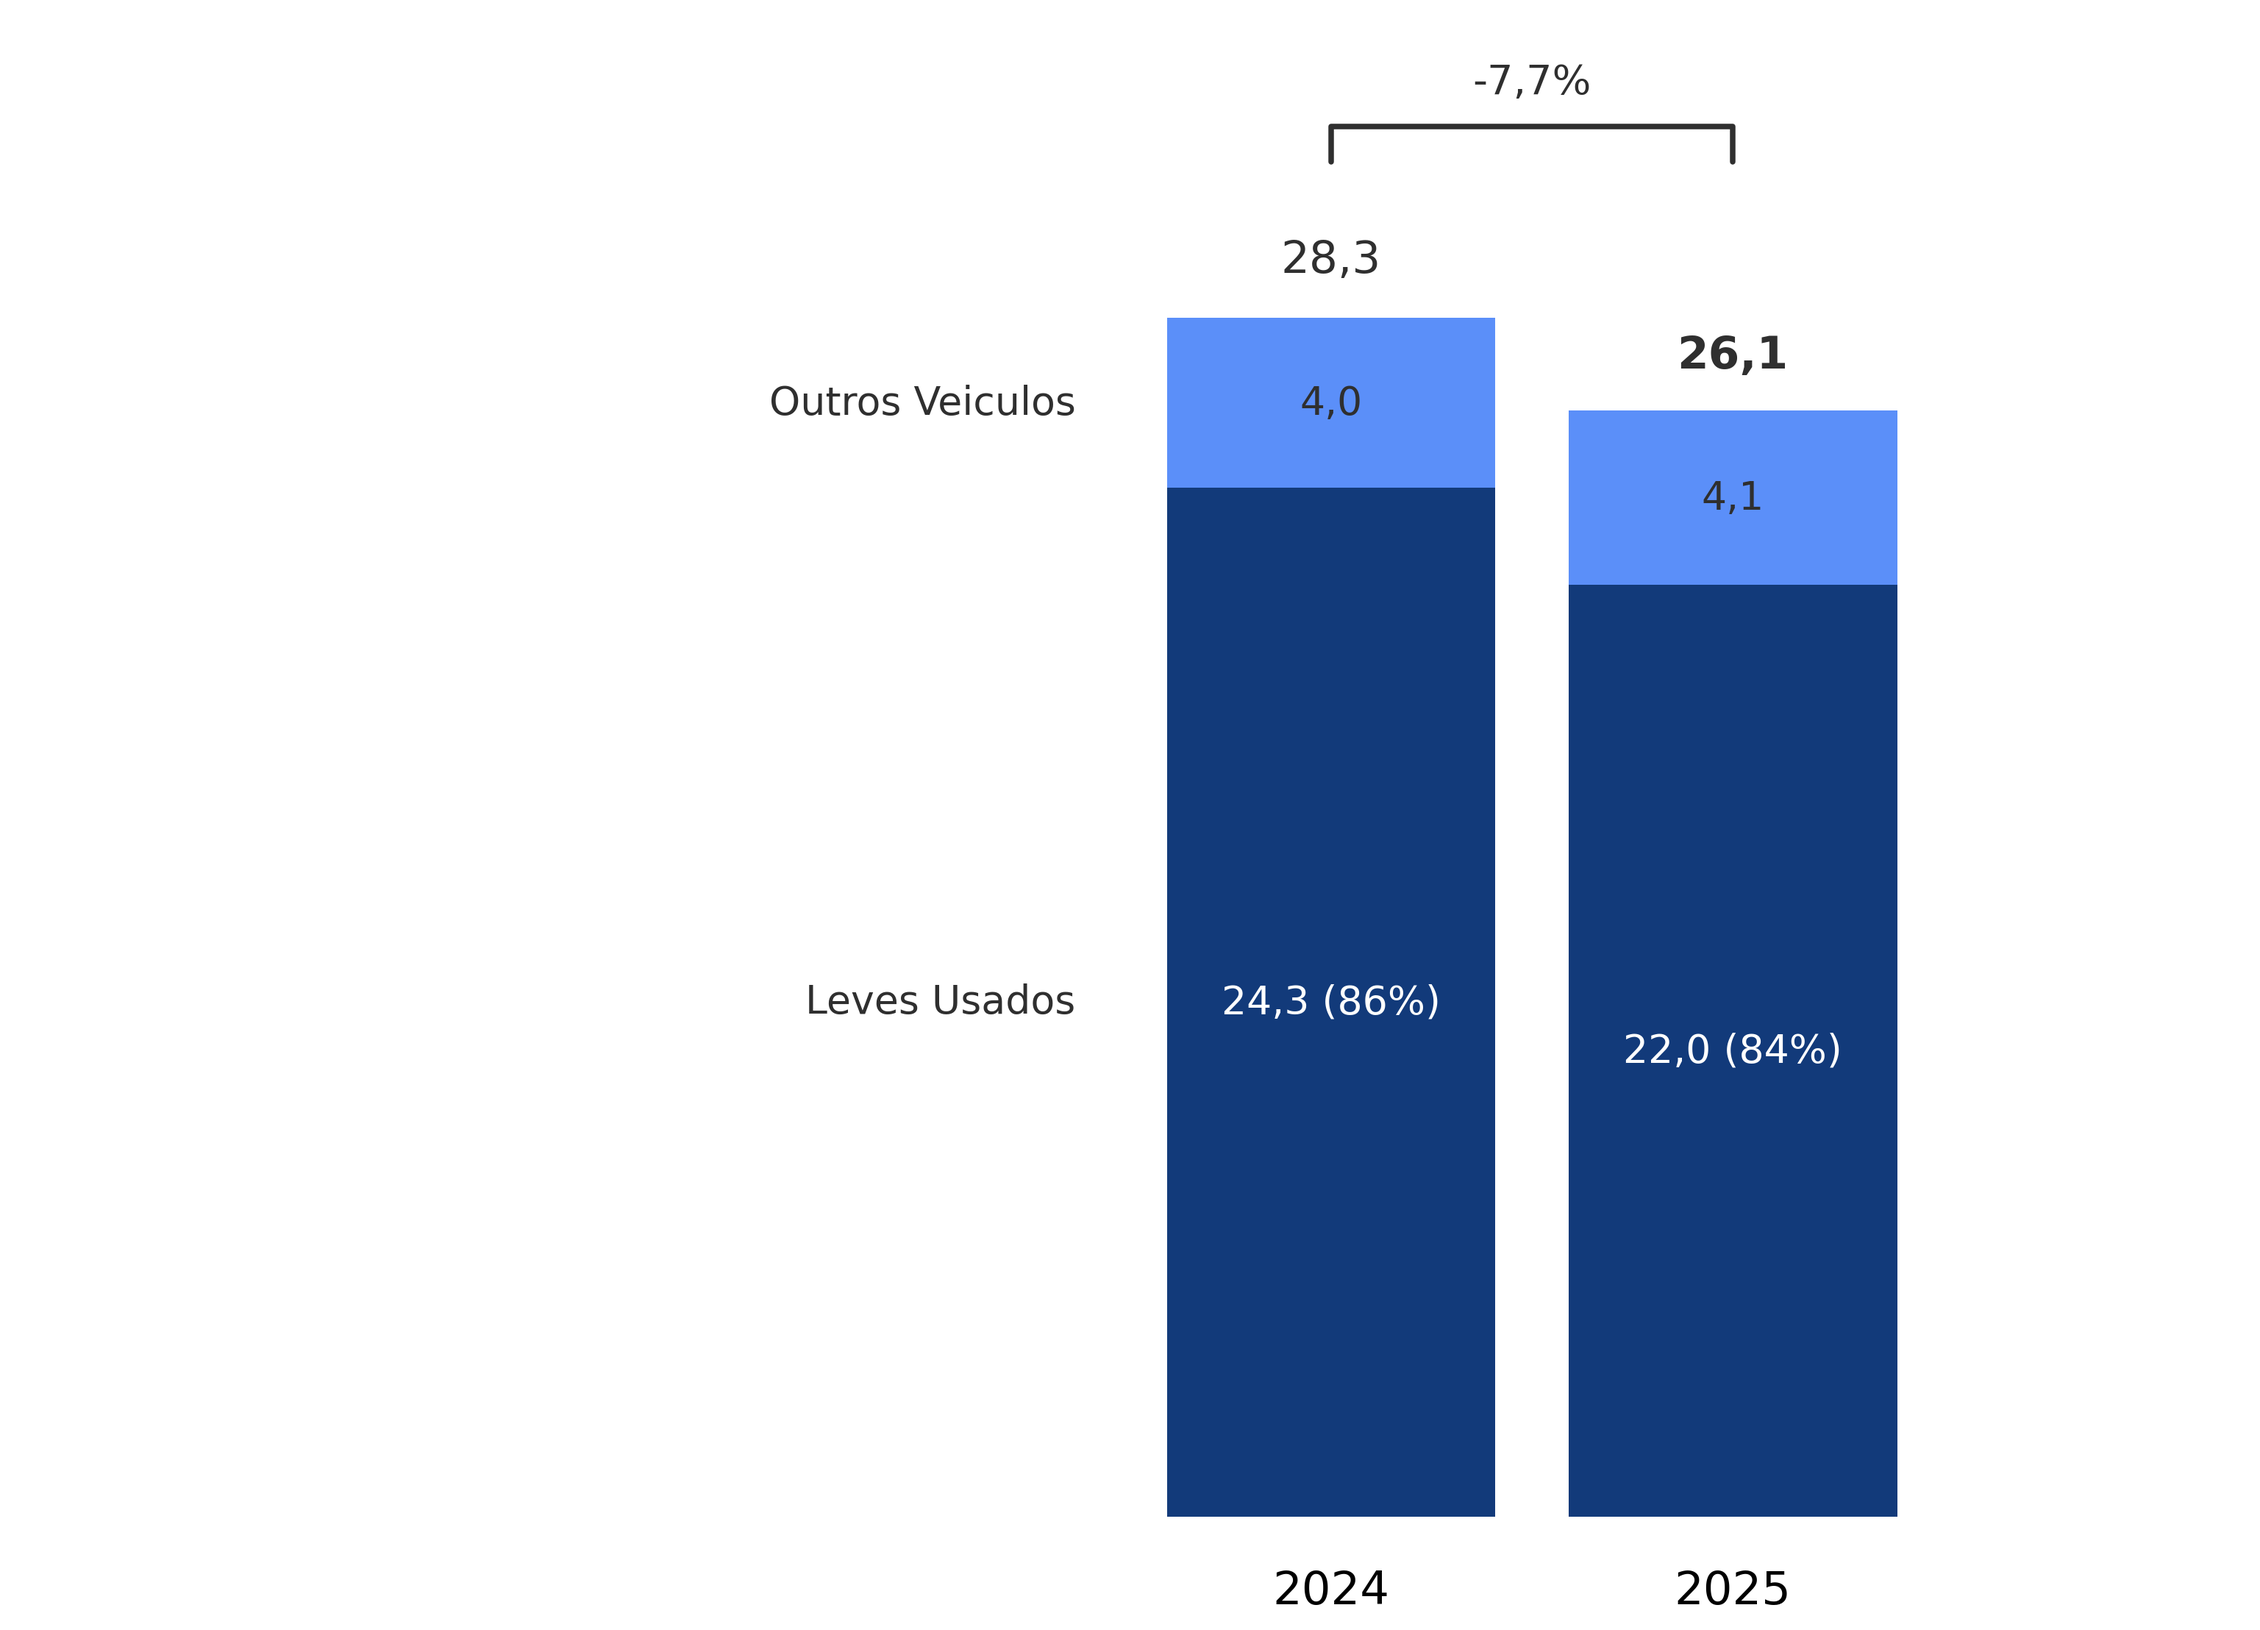
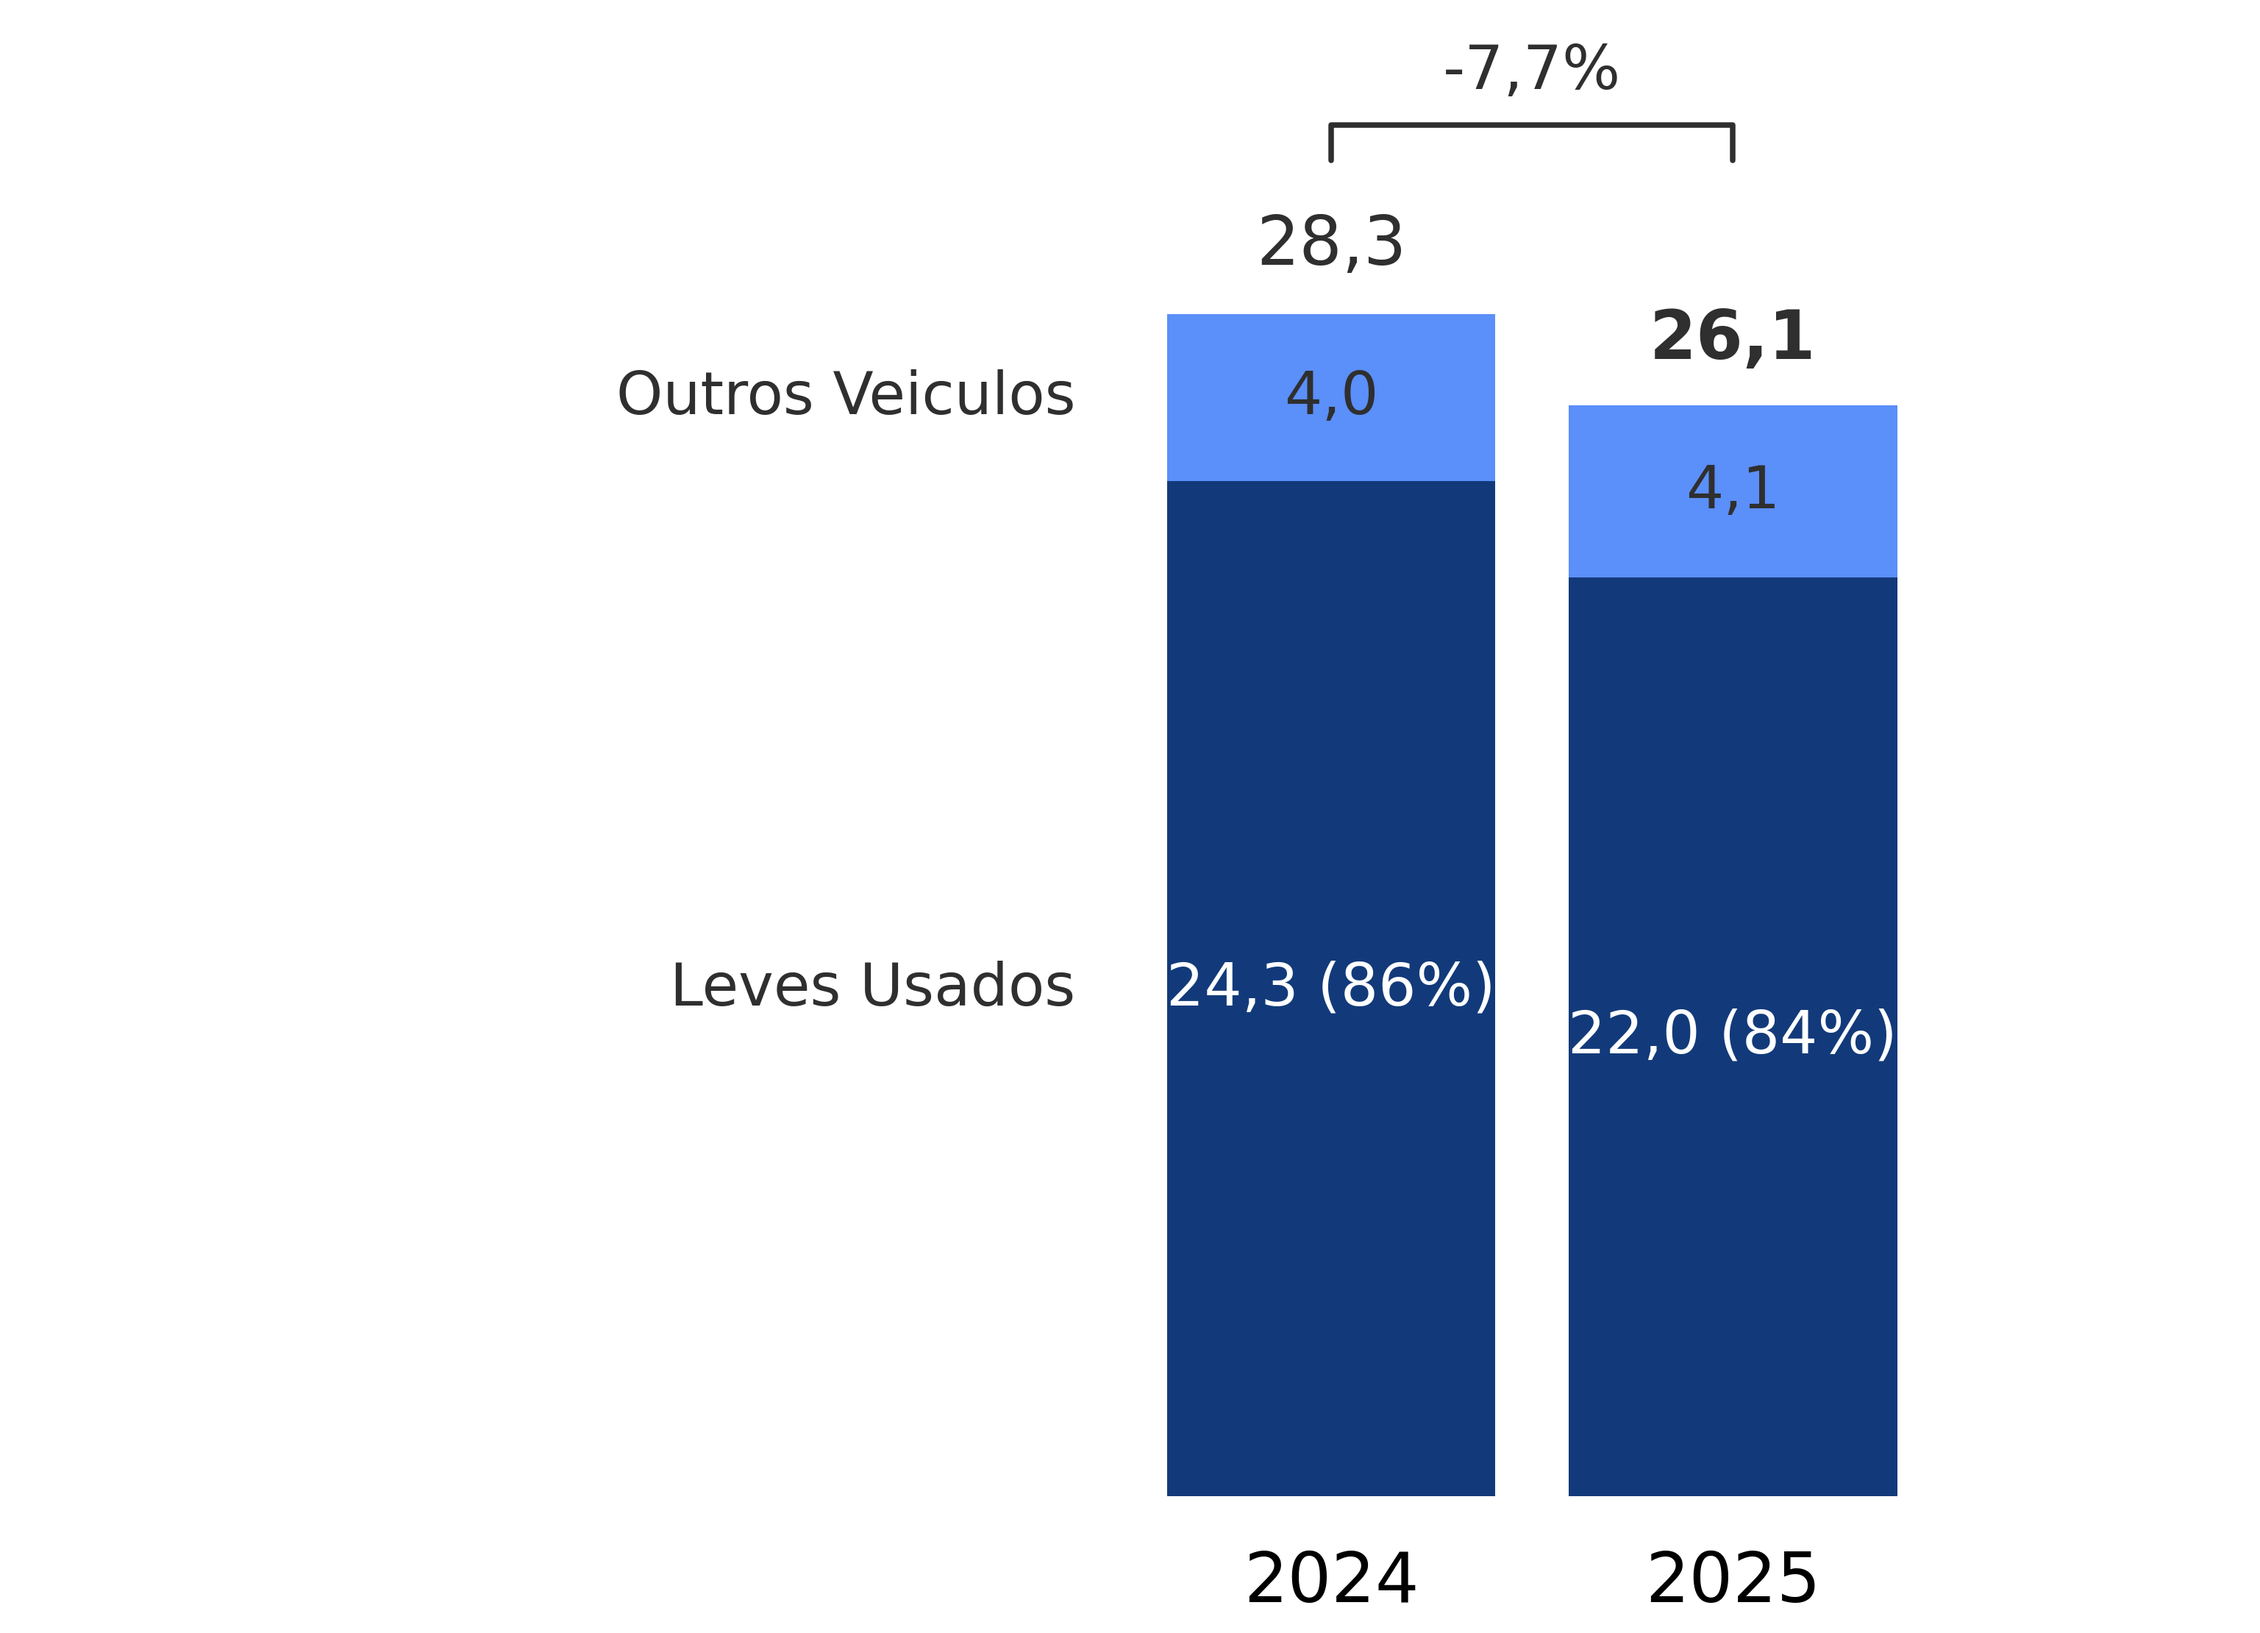
ajuste fino graficos do 14

diff --git a/utils/slide14_charts.py b/utils/slide14_charts.py
@@ -13,6 +13,8 @@ from utils.charts_common import close_figure, to_float_list
 
 STACKED_COLORS = ("#123A7A", "#5B8FF9")
 PERCENT_BAR_COLOR = "#123A7A"
+SLIDE14_FONT_SCALE = 1.5
+SLIDE14_PERCENT_FIGSIZE = (6.4, 2.6)
 
 
 @dataclass(frozen=True)
@@ -191,7 +193,7 @@ def _plot_stacked_veiculos(
                 label,
                 ha="center",
                 va="center",
-                fontsize=8.6,
+                fontsize=8.6 * SLIDE14_FONT_SCALE,
                 color=txt_color,
                 zorder=4,
             )
@@ -209,7 +211,7 @@ def _plot_stacked_veiculos(
             _fmt_value(total),
             ha="center",
             va="bottom",
-            fontsize=9.8,
+            fontsize=9.8 * SLIDE14_FONT_SCALE,
             fontweight="bold" if i == n - 1 else "normal",
             color="#2f2f2f",
             zorder=5,
@@ -250,7 +252,7 @@ def _plot_stacked_veiculos(
                 label,
                 ha="center",
                 va="bottom",
-                fontsize=8.9,
+                fontsize=8.9 * SLIDE14_FONT_SCALE,
                 color="#2f2f2f",
                 zorder=5,
             )
@@ -276,7 +278,7 @@ def _plot_stacked_veiculos(
             str(name),
             ha="right",
             va="center",
-            fontsize=8.6,
+            fontsize=8.6 * SLIDE14_FONT_SCALE,
             color="#2f2f2f",
             zorder=6,
             clip_on=False,
@@ -284,7 +286,7 @@ def _plot_stacked_veiculos(
 
     ax.set_xlim(float(x.min()) - 0.72, float(x.max()) + 0.28)
     ax.set_xticks(x)
-    ax.set_xticklabels(xlabels, fontsize=10.0)
+    ax.set_xticklabels(xlabels, fontsize=10.0 * SLIDE14_FONT_SCALE)
     ax.tick_params(axis="x", bottom=False, pad=8)
     ax.set_yticks([])
     for spine in ("left", "right", "top", "bottom"):
@@ -310,7 +312,7 @@ def _plot_percent_bars(
     x = np.arange(len(vals), dtype=float) * (0.22 if len(vals) <= 2 else 0.24)
     width = 0.18 if len(vals) <= 2 else 0.20
 
-    fig, ax = plt.subplots(figsize=(6.4, 4.7), dpi=240)
+    fig, ax = plt.subplots(figsize=SLIDE14_PERCENT_FIGSIZE, dpi=240)
     fig.patch.set_alpha(0)
     ax.set_facecolor("none")
 
@@ -323,7 +325,7 @@ def _plot_percent_bars(
             _fmt_pct_trunc(v),
             ha="center",
             va="bottom",
-            fontsize=10.0,
+            fontsize=10.0 * SLIDE14_FONT_SCALE,
             fontweight="bold" if i == len(vals) - 1 else "normal",
             color="#2f2f2f",
             zorder=4,
@@ -334,7 +336,7 @@ def _plot_percent_bars(
     ax.set_ylim(0.0, ymax)
     ax.set_xlim(float(x.min()) - 0.30, float(x.max()) + 0.30)
     ax.set_xticks(x)
-    ax.set_xticklabels(xlabels, fontsize=10.0)
+    ax.set_xticklabels(xlabels, fontsize=10.0 * SLIDE14_FONT_SCALE)
     ax.tick_params(axis="x", bottom=False, pad=8)
     ax.set_yticks([])
     for spine in ("left", "right", "top", "bottom"):
